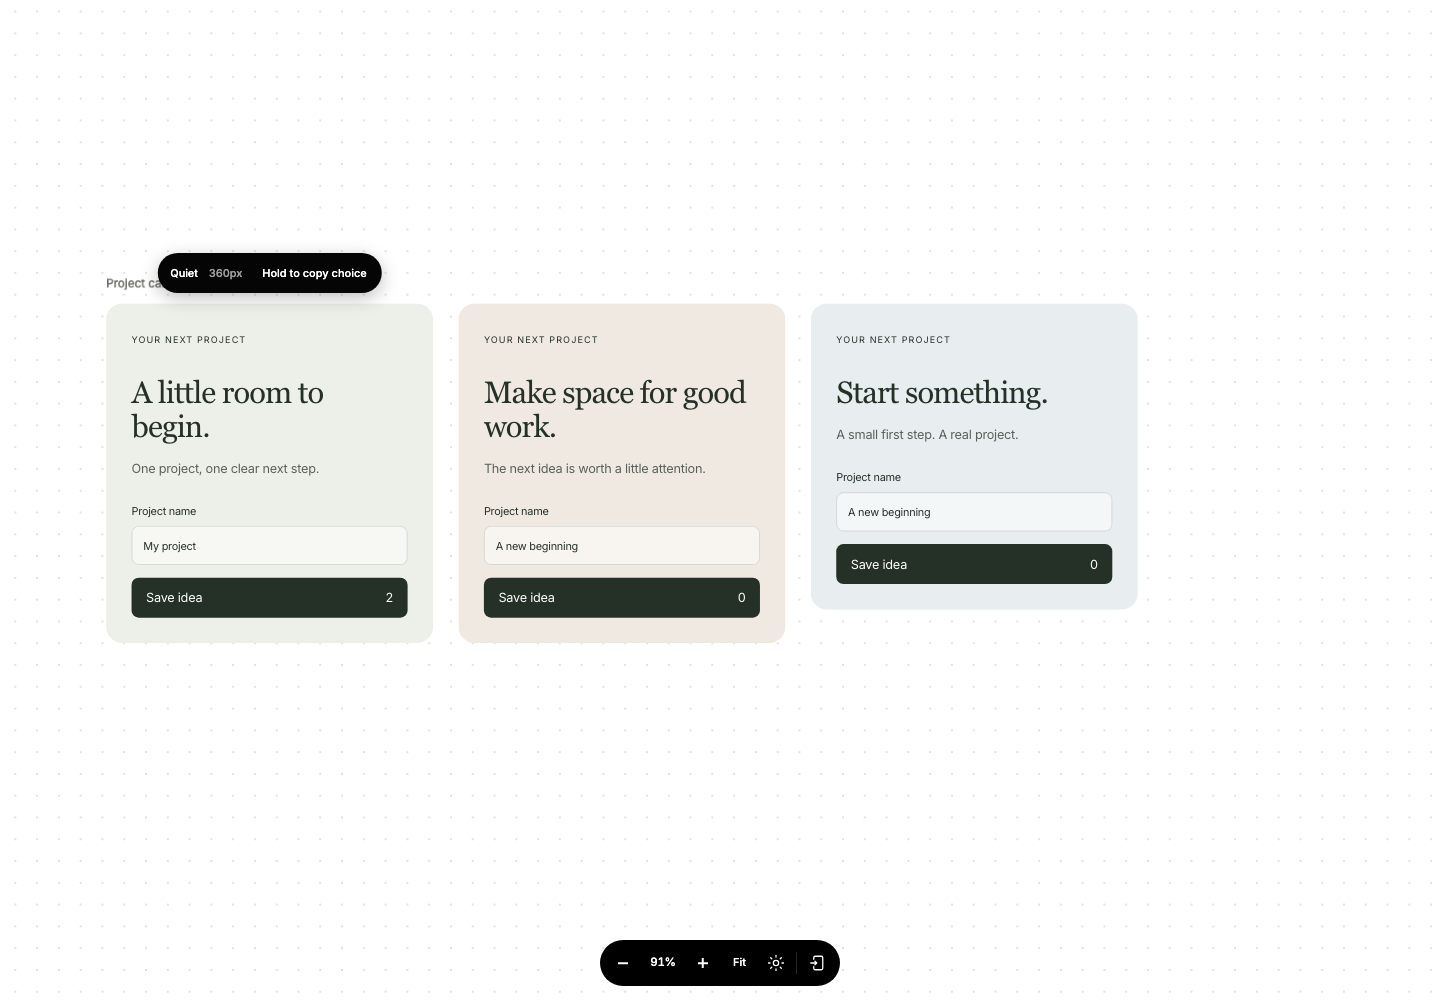
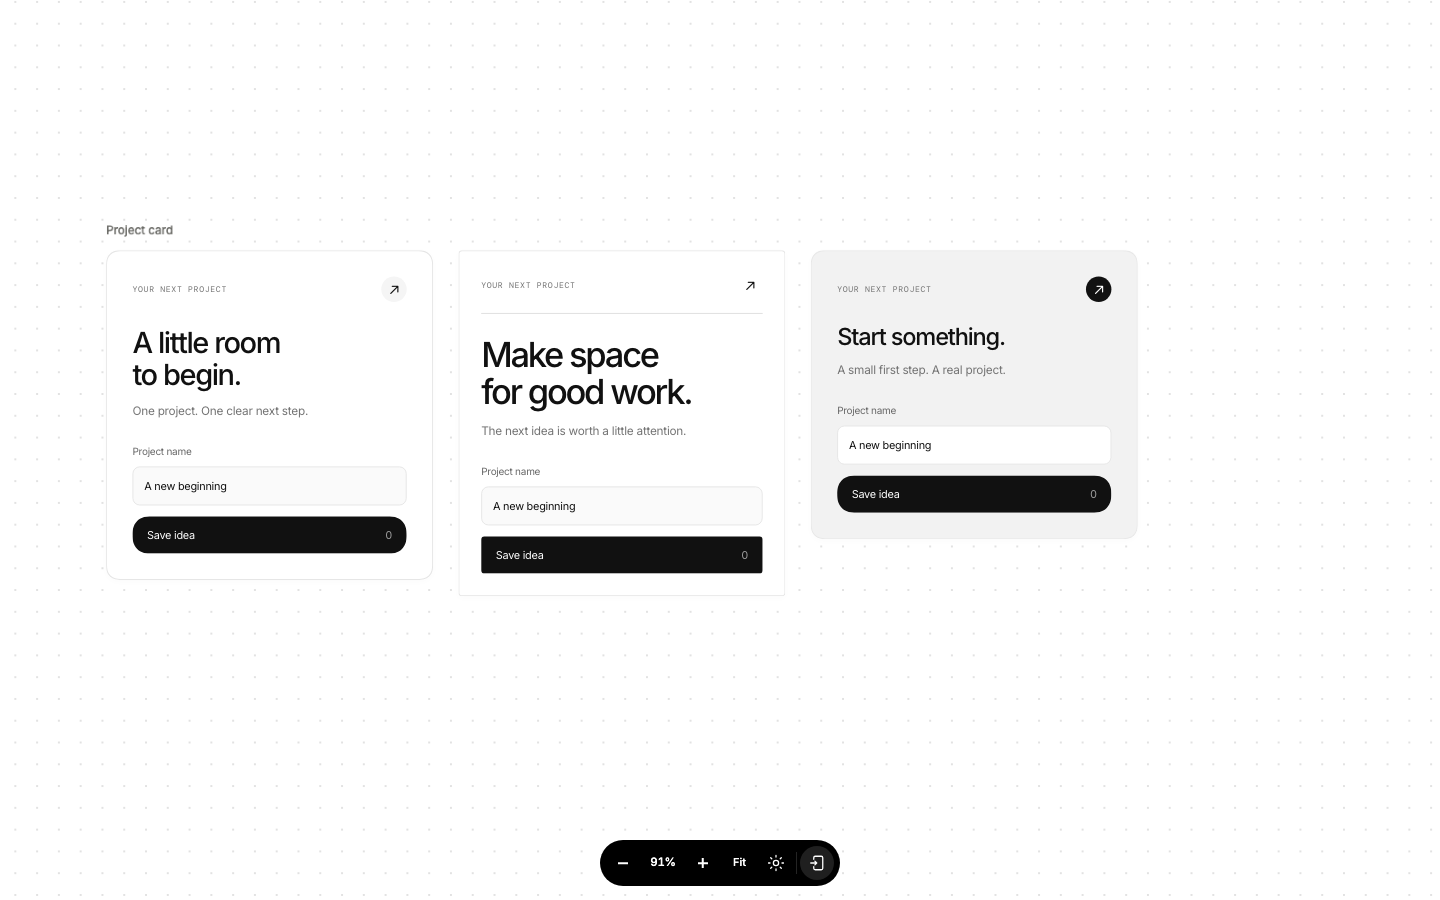
Release 0.2.1 with Cmd wheel Canvas zoom

diff --git a/test/picker-canvas.test.js b/test/picker-canvas.test.js
@@ -435,3 +435,50 @@ test('Canvas leaves app-owned popover option roots untouched', async () => {
     assert.equal(await page.locator('[data-live-option]').count(), 0);
   } finally { await browser.close(); }
 });
+
+test('Ctrl and Cmd wheel zoom Canvas and suppress browser defaults only while open', async () => {
+  const browser = await launchBrowser();
+  try {
+    const page = await browser.newPage();
+    await page.setContent(PAGE);
+    const dispatch = (modifier, target) => page.evaluate(({modifier, target}) => {
+      const root = document.querySelector('[data-unship-toolbar]').shadowRoot;
+      const node = target === 'controls' ? root.querySelector('.canvas-close') :
+        target === 'option' ? document.querySelector('[data-live-option]') : document.body;
+      const event = new WheelEvent('wheel', { [modifier]: true, deltaY: -20, clientX: 300, clientY: 200, bubbles: true, composed: true, cancelable: true });
+      node.dispatchEvent(event);
+      return event.defaultPrevented;
+    }, {modifier, target});
+    for (const modifier of ['ctrlKey', 'metaKey']) assert.equal(await dispatch(modifier, 'body'), false);
+    const entryCaptured = await page.evaluate(() => {
+      document.querySelector('[data-unship-toolbar]').shadowRoot.querySelector('[data-action="open-canvas"]').click();
+      return ['ctrlKey', 'metaKey'].map(modifier => {
+        const event = new WheelEvent('wheel', { [modifier]: true, deltaY: -20, bubbles: true, cancelable: true });
+        document.body.dispatchEvent(event);
+        return event.defaultPrevented;
+      });
+    });
+    assert.deepEqual(entryCaptured, [true, true]);
+    await page.waitForFunction(() => document.querySelector('[data-unship-toolbar]').shadowRoot.querySelector('.canvas-shell.content-visible'));
+    const viewport = await page.evaluate(() => [innerWidth, devicePixelRatio, visualViewport.scale]);
+    for (const modifier of ['Meta', 'Control']) {
+      const before = await page.evaluate(() => __unshipPicker.getState().canvas.zoom);
+      await page.mouse.move(300, 200);
+      await page.keyboard.down(modifier);
+      await page.mouse.wheel(0, -35);
+      await page.keyboard.up(modifier);
+      await page.waitForFunction(before => __unshipPicker.getState().canvas.zoom > before, before);
+      assert.deepEqual(await page.evaluate(() => [innerWidth, devicePixelRatio, visualViewport.scale]), viewport);
+    }
+    for (const modifier of ['ctrlKey', 'metaKey']) {
+      for (const target of ['body', 'controls', 'option']) {
+        const before = await page.evaluate(() => __unshipPicker.getState().canvas.zoom);
+        assert.equal(await dispatch(modifier, target), true);
+        await page.waitForFunction(before => __unshipPicker.getState().canvas.zoom > before, before);
+      }
+    }
+    assert.deepEqual(await page.evaluate(() => [innerWidth, devicePixelRatio, visualViewport.scale]), viewport);
+    await page.getByRole('button', {name:'Back to page', exact:true}).click();
+    for (const modifier of ['ctrlKey', 'metaKey']) assert.equal(await dispatch(modifier, 'body'), false);
+  } finally { await browser.close(); }
+});

diff --git a/src/picker/unship-picker.js b/src/picker/unship-picker.js
@@ -82,7 +82,7 @@
   const canvasKeeps = new Map();
 
   const api = {
-    version: "0.2.0",
+    version: "0.2.1",
     rescan,
     destroy,
     getState
@@ -966,18 +966,19 @@
 
   function handleCanvasWheel(event) {
     if (!canvasOpen && !canvasPreparing) return;
+    const modifiedZoom = event.ctrlKey || event.metaKey;
     const target = event.composedPath()[0] || event.target;
     const overLiveOption = event.composedPath().some(node => node.hasAttribute?.('data-live-option'));
-    if (!event.ctrlKey && !target.closest?.(".canvas-viewport") && !overLiveOption) return;
-    if (!event.ctrlKey && overLiveOption && liveScrollConsumes(event)) return;
-    // Claim pinch from the entry click, before prepared previews take pointer input.
+    if (!modifiedZoom && !target.closest?.(".canvas-viewport") && !overLiveOption) return;
+    if (!modifiedZoom && overLiveOption && liveScrollConsumes(event)) return;
+    // Claim pinch and Ctrl/Cmd + wheel from entry, suppressing browser zoom.
     event.preventDefault();
     event.stopImmediatePropagation();
     if (!canvasOpen || !canvasCamera) return;
     const delta = event.deltaMode === 1 ? event.deltaY * 16 : event.deltaMode === 2 ? event.deltaY * window.innerHeight : event.deltaY;
     const focal = { clientX: event.clientX, clientY: event.clientY };
     canvasCursor = focal;
-    if (event.ctrlKey) {
+    if (modifiedZoom) {
       stopCanvasZoomAnimation();
       // A pinch is a continuous gesture, so it must never inherit the
       // transition used by button/fit zooms. Clear it synchronously before
@@ -2023,14 +2024,14 @@
         if (!doc || doc === attachedDocument) return;
         attachedDocument = doc;
         const relay = event => {
-          if ((!canvasOpen && !canvasPreparing) || (!event.ctrlKey && liveScrollConsumes(event))) return;
+          if ((!canvasOpen && !canvasPreparing) || (!event.ctrlKey && !event.metaKey && liveScrollConsumes(event))) return;
           const rect = frame.getBoundingClientRect();
           const scaleX = rect.width / (frame.offsetWidth || rect.width);
           const scaleY = rect.height / (frame.offsetHeight || rect.height);
           const view = frame.ownerDocument.defaultView;
           const forwarded = new view.WheelEvent('wheel', {
             deltaX:event.deltaX, deltaY:event.deltaY, deltaMode:event.deltaMode,
-            ctrlKey:event.ctrlKey, shiftKey:event.shiftKey,
+            ctrlKey:event.ctrlKey, metaKey:event.metaKey, shiftKey:event.shiftKey,
             clientX:rect.left+(event.clientX+frame.clientLeft)*scaleX,
             clientY:rect.top+(event.clientY+frame.clientTop)*scaleY,
             bubbles:true, composed:true, cancelable:true

diff --git a/CHANGELOG.md b/CHANGELOG.md
@@ -2,6 +2,11 @@
 
 All notable changes to Unship are documented here.
 
+## 0.2.1 - 2026-09-16
+
+- Support Cmd + scroll for Canvas zoom alongside Ctrl + scroll and trackpad pinch, including accessible embedded frames.
+- Suppress native browser wheel zoom throughout Canvas entry and while open; restore normal wheel behavior on exit. Browser keyboard shortcuts remain unchanged.
+
 ## 0.2.0 - 2026-09-16
 
 ### Live Canvas

diff --git a/README.md b/README.md
@@ -21,6 +21,8 @@ Restart your agent or reload its skills. If detection misses your agent, name it
 
 **New in 0.2:** live Canvas, broader agent installation, and safer picker updates. See the [release notes](CHANGELOG.md).
 
+**0.2.1:** Cmd + scroll now zooms Canvas on Mac, alongside Ctrl + scroll and pinch. Native browser wheel zoom stays suppressed while Canvas is open.
+
 ## Use
 
 ```text

diff --git a/CONTRIBUTING.md b/CONTRIBUTING.md
@@ -20,7 +20,7 @@ For stateful Canvas development, see the [React browser fixture](e2e/live-canvas
 
 ```bash
 npm pack
-npm install -g ./unship-cli-0.2.0.tgz
+npm install -g ./unship-cli-0.2.1.tgz
 unship install --repair --yes --no-project
 ```
 
